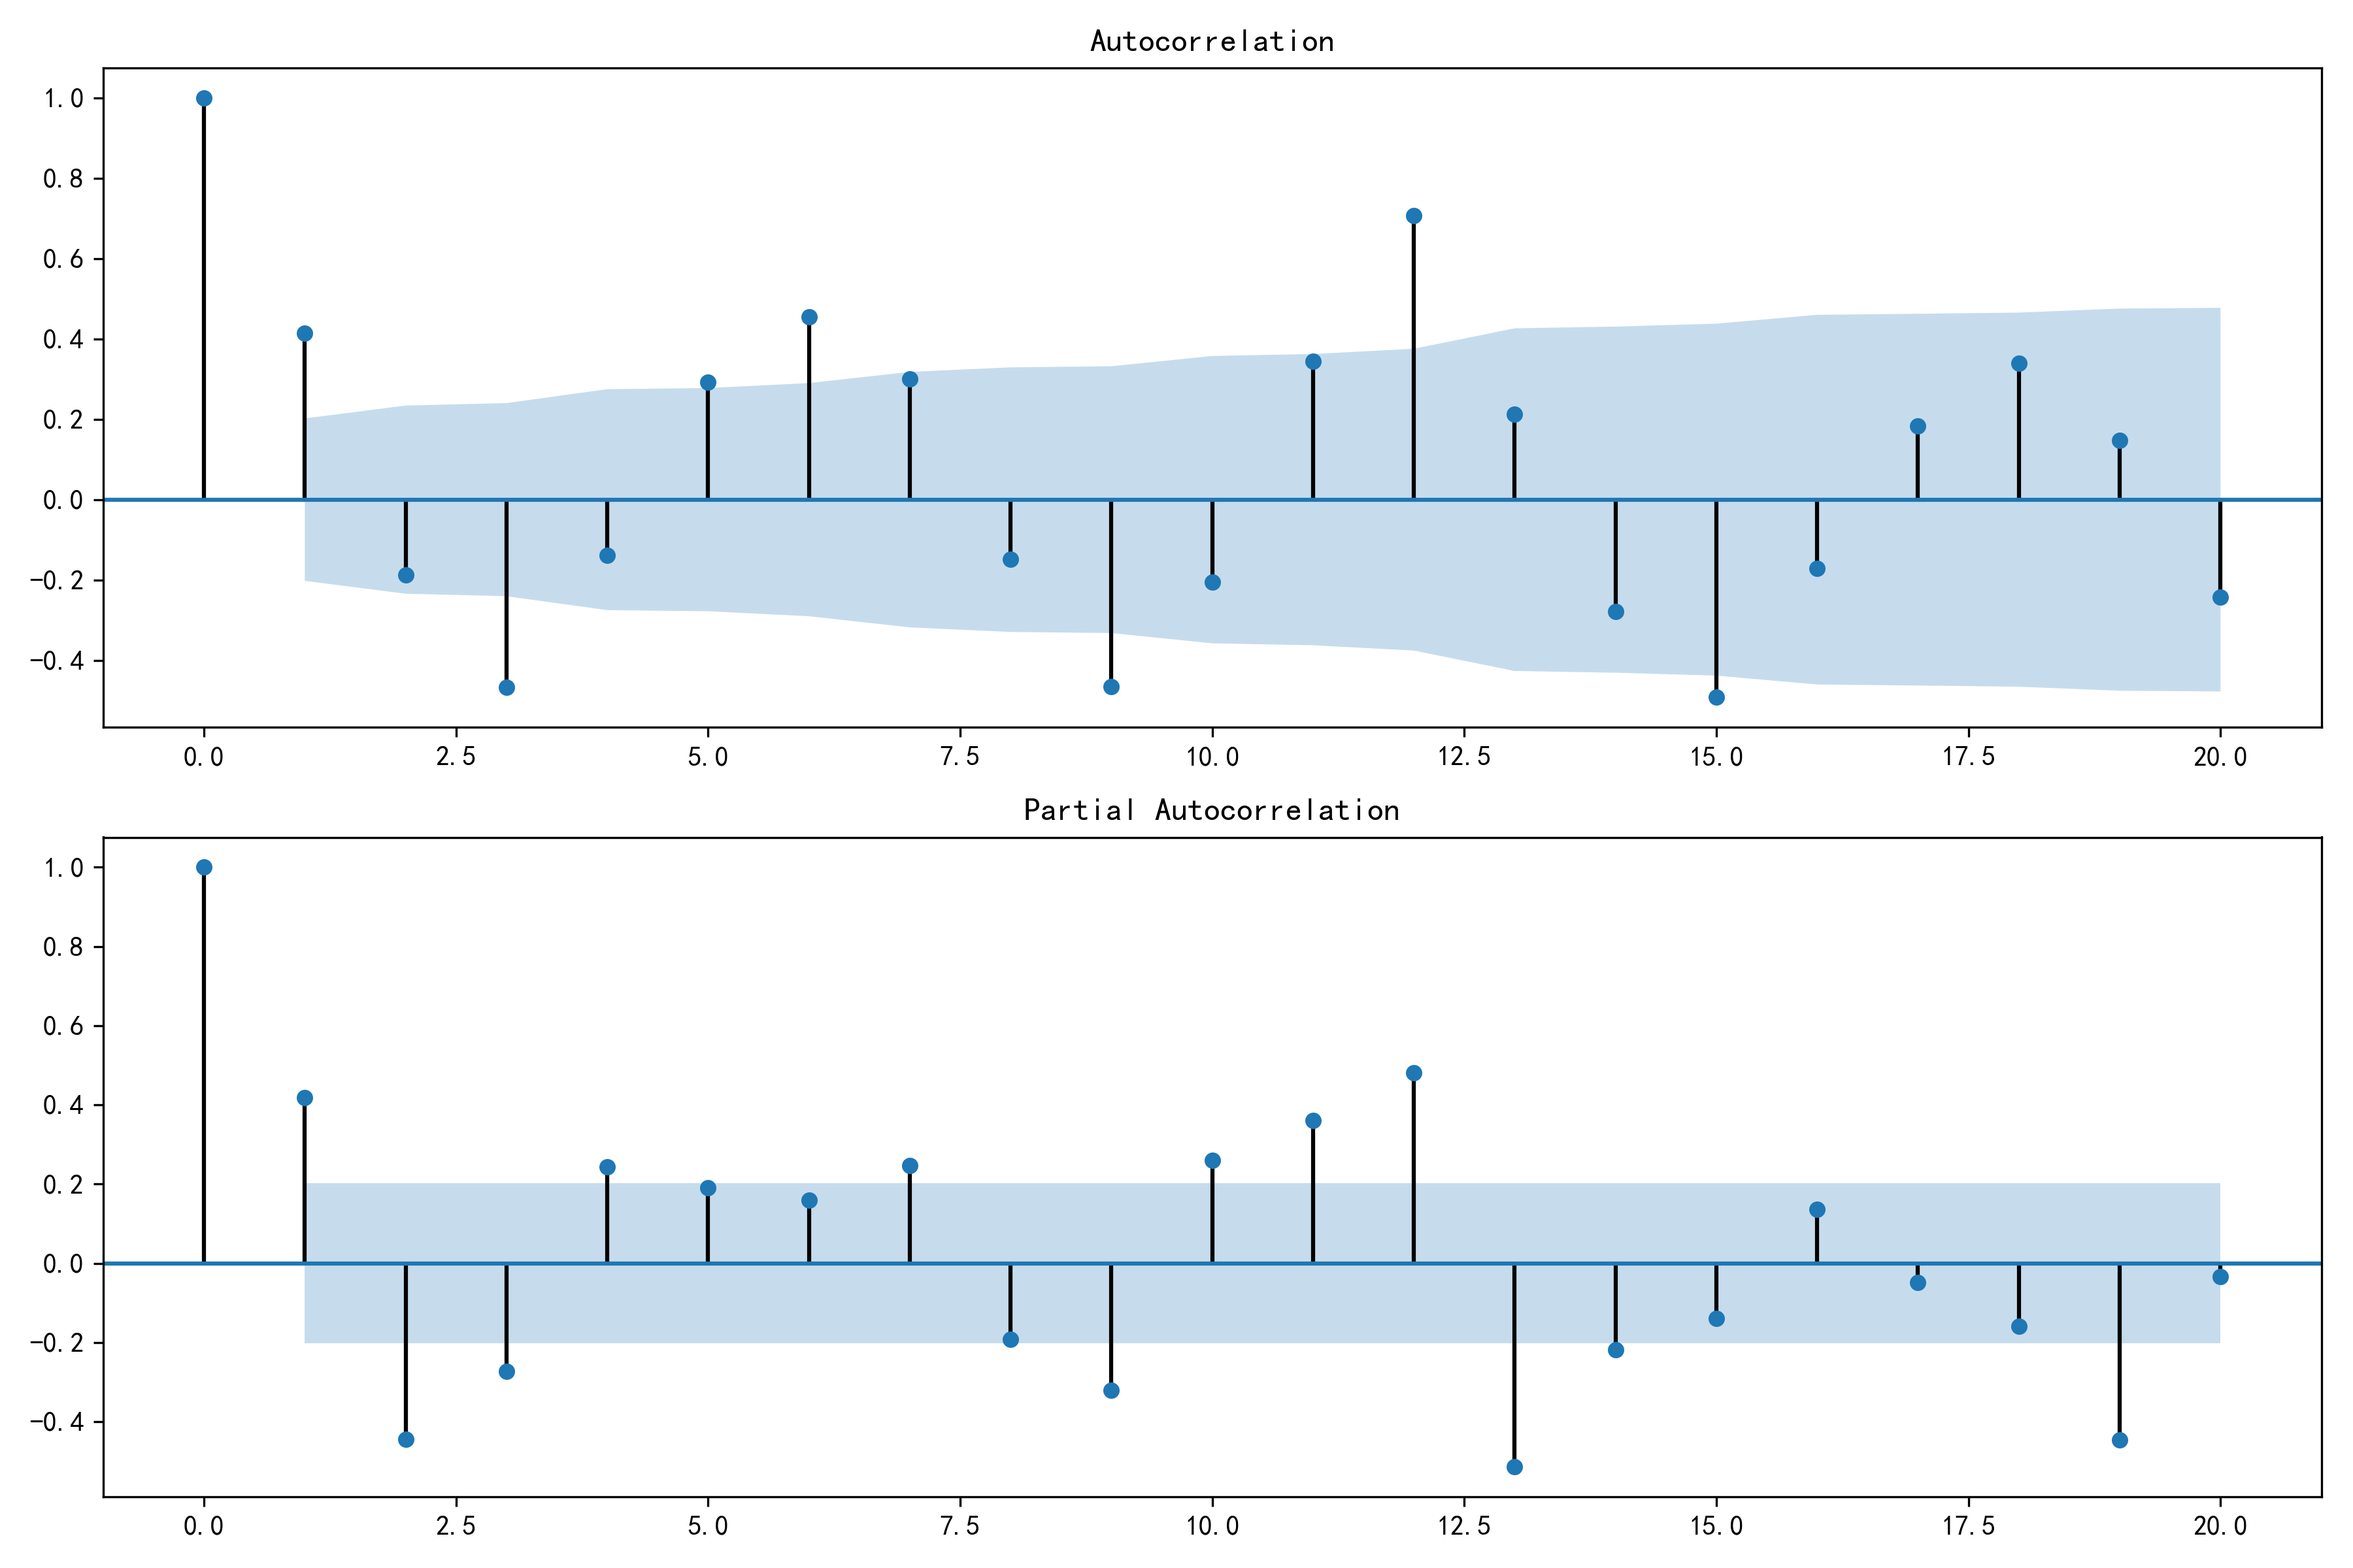
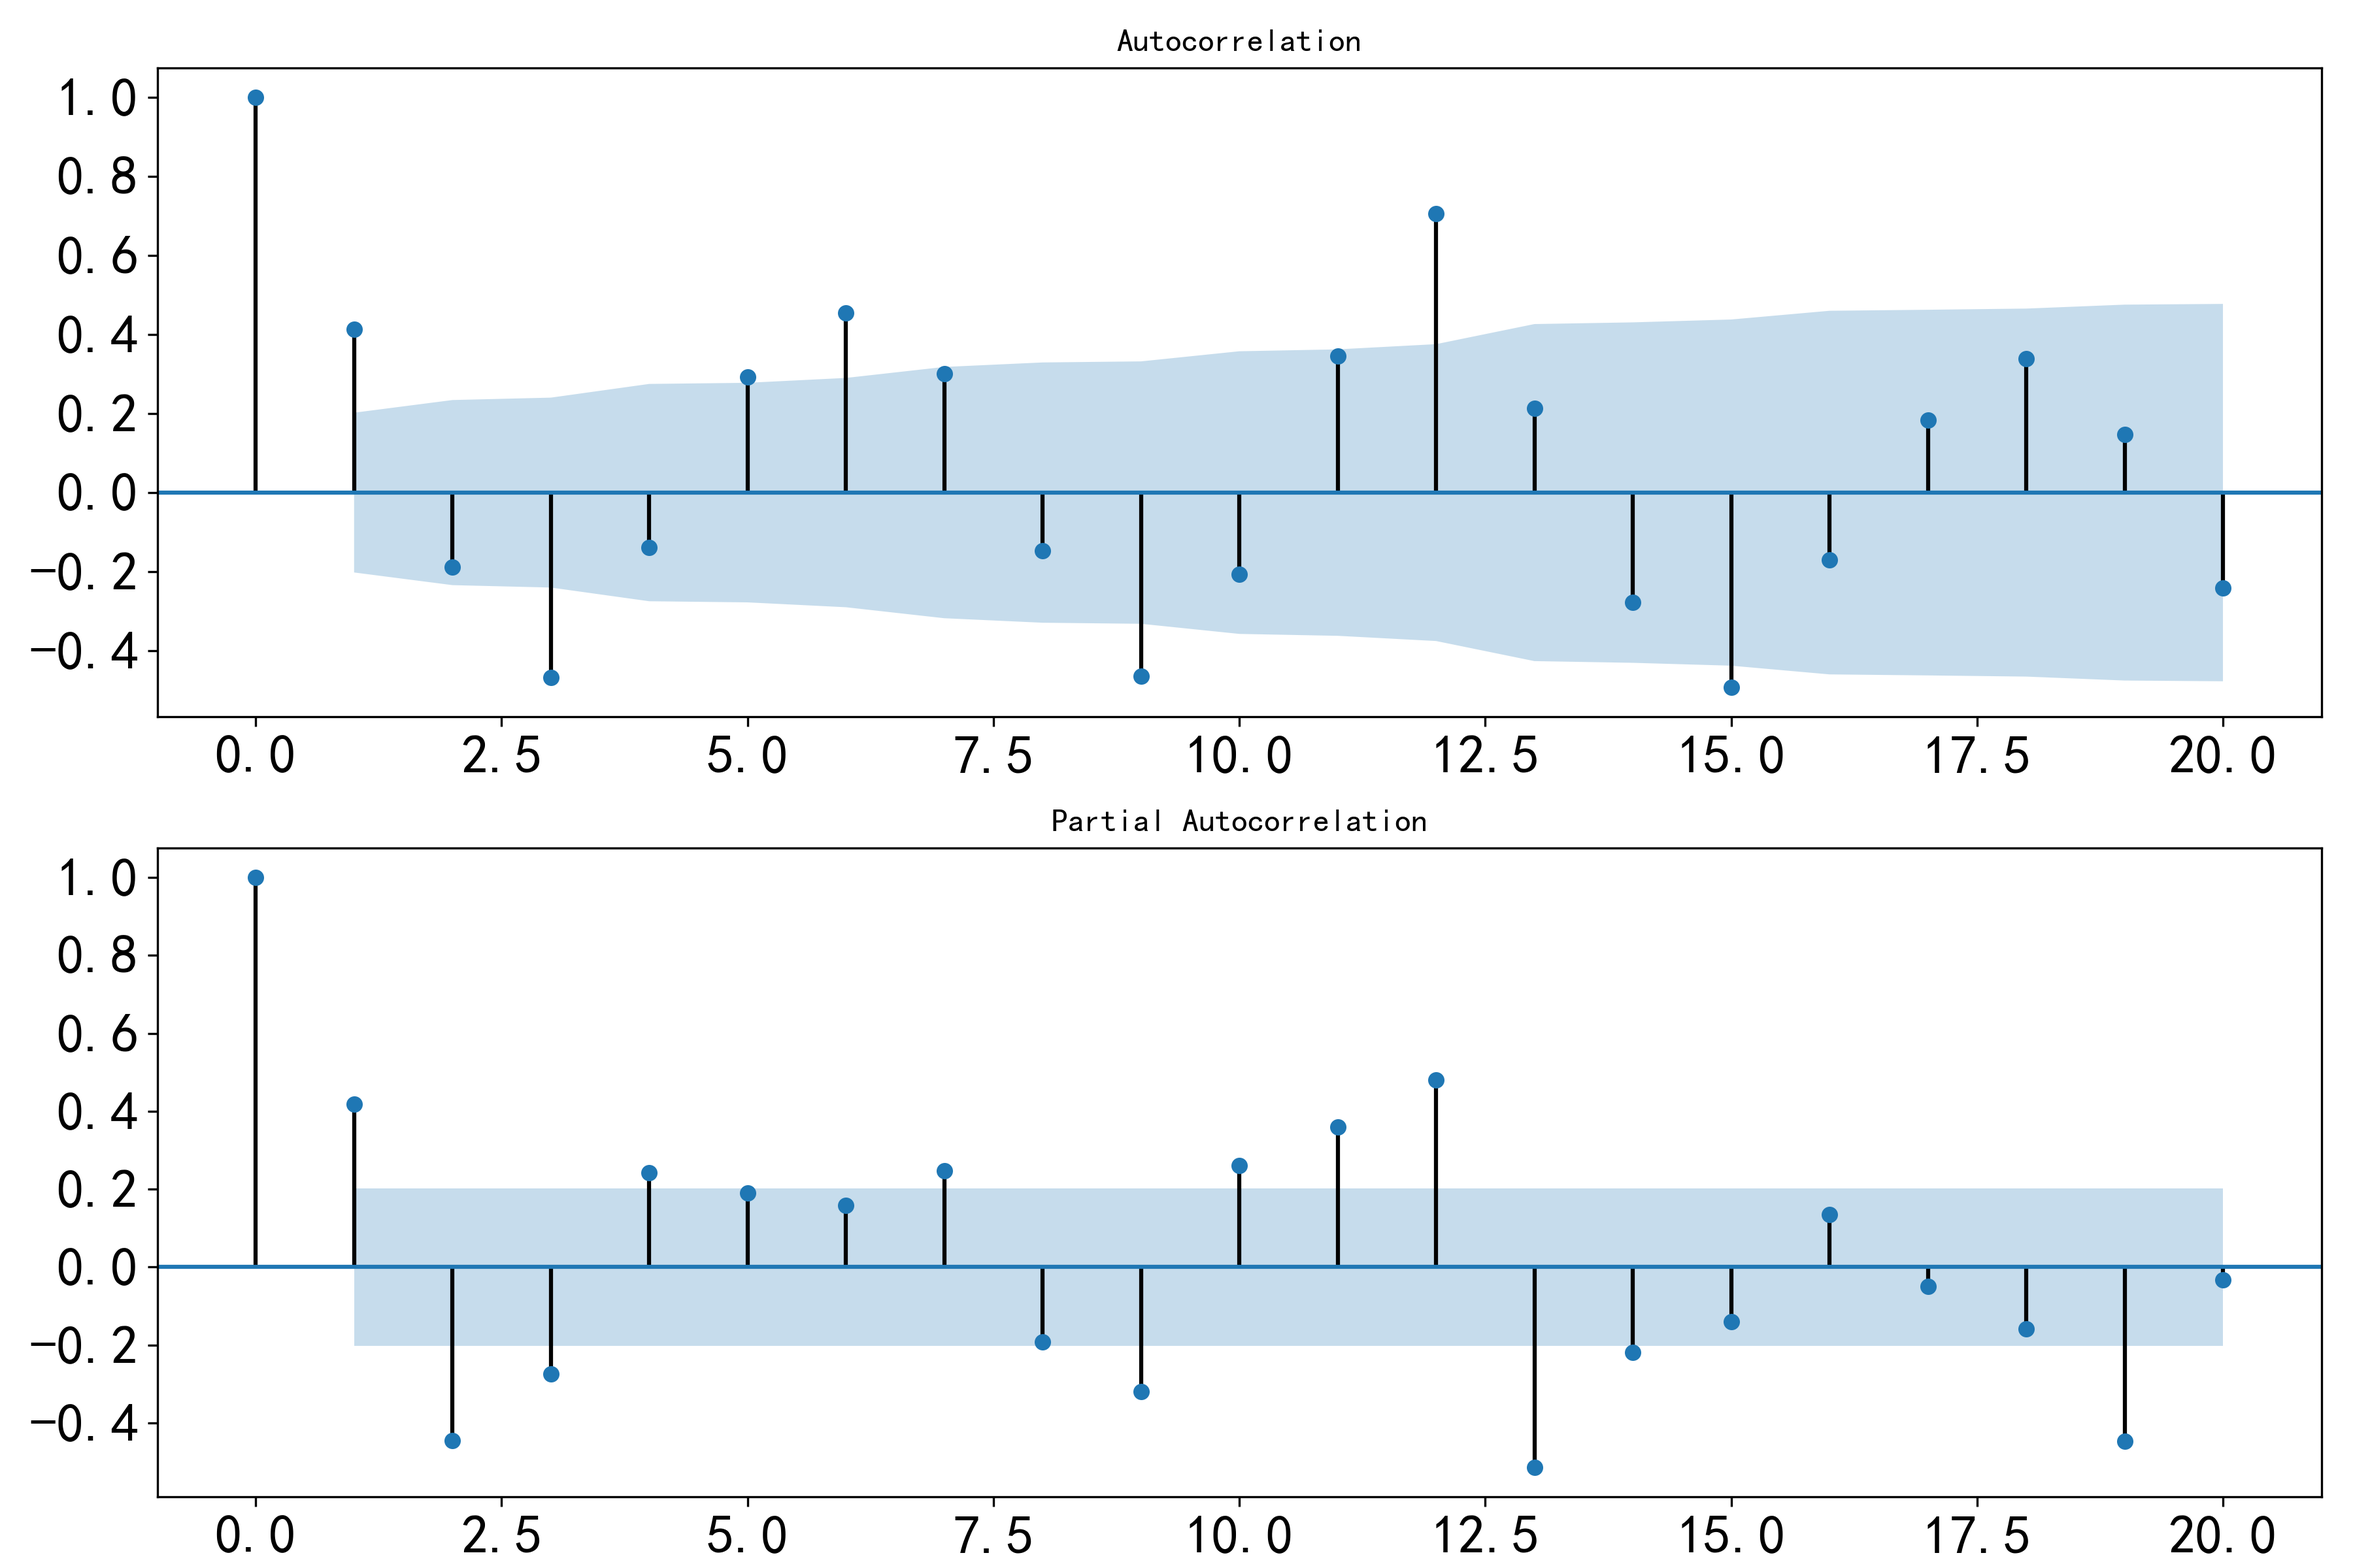
修复问题

diff --git a/Tourist Predict--A case of Shanghai/ARIMA.py b/Tourist Predict--A case of Shanghai/ARIMA.py
@@ -16,18 +16,20 @@ from sklearn.cross_validation import train_test_split
 from sklearn.metrics import classification_report
 from datetime import datetime
 
-data = pd.read_excel(r'Data/上海旅游人数--上海旅游（百度指数-区分来源）.xlsx', parse_dates=[0],index_col='时间')#读取excel数据
-x = pd.read_excel(r'Data/自变量.xlsx', parse_dates=[0],index_col='时间')
-data.index =  pd.to_datetime(data.index)
-x.index = pd.to_datetime(x.index)
+data = pd.read_excel(r'Data/上海旅游人数--上海旅游（百度指数-区分来源）.xlsx')#读取excel数据
+x = pd.read_excel(r'Data/自变量.xlsx')
+
 
 tourist_Number = data['旅游人数']
-y_Train = tourist_Number[:85] #模型训练Y
-y_Test = tourist_Number[85:] #检测Y
 
+y_Train = tourist_Number[:85] #模型训练Y
 x_Train = x[:85]
 
-print(data.head())
+y_Test = tourist_Number[85:] #检测Y
+
+
+
+
 
 #绘图显示中文及设置分辨率
 plt.rcParams['font.sans-serif']=['SimHei']
@@ -52,14 +54,20 @@ def ACF_PACF(data):
     fig = plt.figure(figsize=(12,8))
 
     ax1 = fig.add_subplot(211)
-    fig = sm.graphics.tsa.plot_acf(data, lags=20,ax=ax1)
+    fig = sm.graphics.tsa.plot_acf(data, lags=12,ax=ax1)
     ax1.xaxis.set_ticks_position('bottom')
+    plt.xticks(fontsize = 20 )
+    plt.yticks(fontsize = 20 )
+
     fig.tight_layout();
 
     ax2 = fig.add_subplot(212)
-    fig = sm.graphics.tsa.plot_pacf(data, lags=20, ax=ax2)
+    fig = sm.graphics.tsa.plot_pacf(data, lags=12, ax=ax2)
     ax2.xaxis.set_ticks_position('bottom')
     fig.tight_layout();
+    plt.xticks(fontsize = 20 )
+    plt.yticks(fontsize = 20 )
+
     plt.savefig(r'Pictures/ACF_PACF.png')
     plt.show()
 
@@ -91,7 +99,7 @@ def scatter_diagram(data):
 
 #确定模型的P,Q最佳取值
 def decide_PQ(y_Train,x_Train):   
-    arima401 = sm.tsa.SARIMAX(y_Train,x_Train, order=(4,0,1))
+    arima401 = sm.tsa.SARIMAX(endog=y_Train,exog = x_Train, order=(4,0,1))
     model_results = arima401.fit()
 
     p_min = 0
@@ -112,7 +120,7 @@ def decide_PQ(y_Train,x_Train):
             continue
     
         try:
-            model = sm.tsa.SARIMAX(y_Train,x_Train, order=(p, d, q),
+            model = sm.tsa.SARIMAX(endog=y_Train,exog=x_Train, order=(p, d, q),
                                #enforce_stationarity=False,
                                #enforce_invertibility=False,
                               )
@@ -127,9 +135,12 @@ def decide_PQ(y_Train,x_Train):
                  mask=results_bic.isnull(),
                  ax=ax,
                  annot=True,
-                 fmt='.2f',
+                 fmt='.2f', 
+                 annot_kws = {'size':20}
                  );
-    ax.set_title('BIC');
+    #ax.set_title('BIC');
+    plt.xticks(fontsize=20)
+    plt.yticks(fontsize=20)
     plt.savefig(r'Pictures/BIC.png')
     plt.show()
 
@@ -154,8 +165,8 @@ def linear_Clustering():
 
 if __name__ == '__main__':
     #stationarity_Test(tourist_Number)
-    #ACF_PACF(tourist_Number)
+    ACF_PACF(tourist_Number)
     #scatter_diagram(tourist_Number)
     #decide_PQ(y_Train,x_Train)  
     #最终确定ARIMA（0，0，1）
-    pred()
+    
